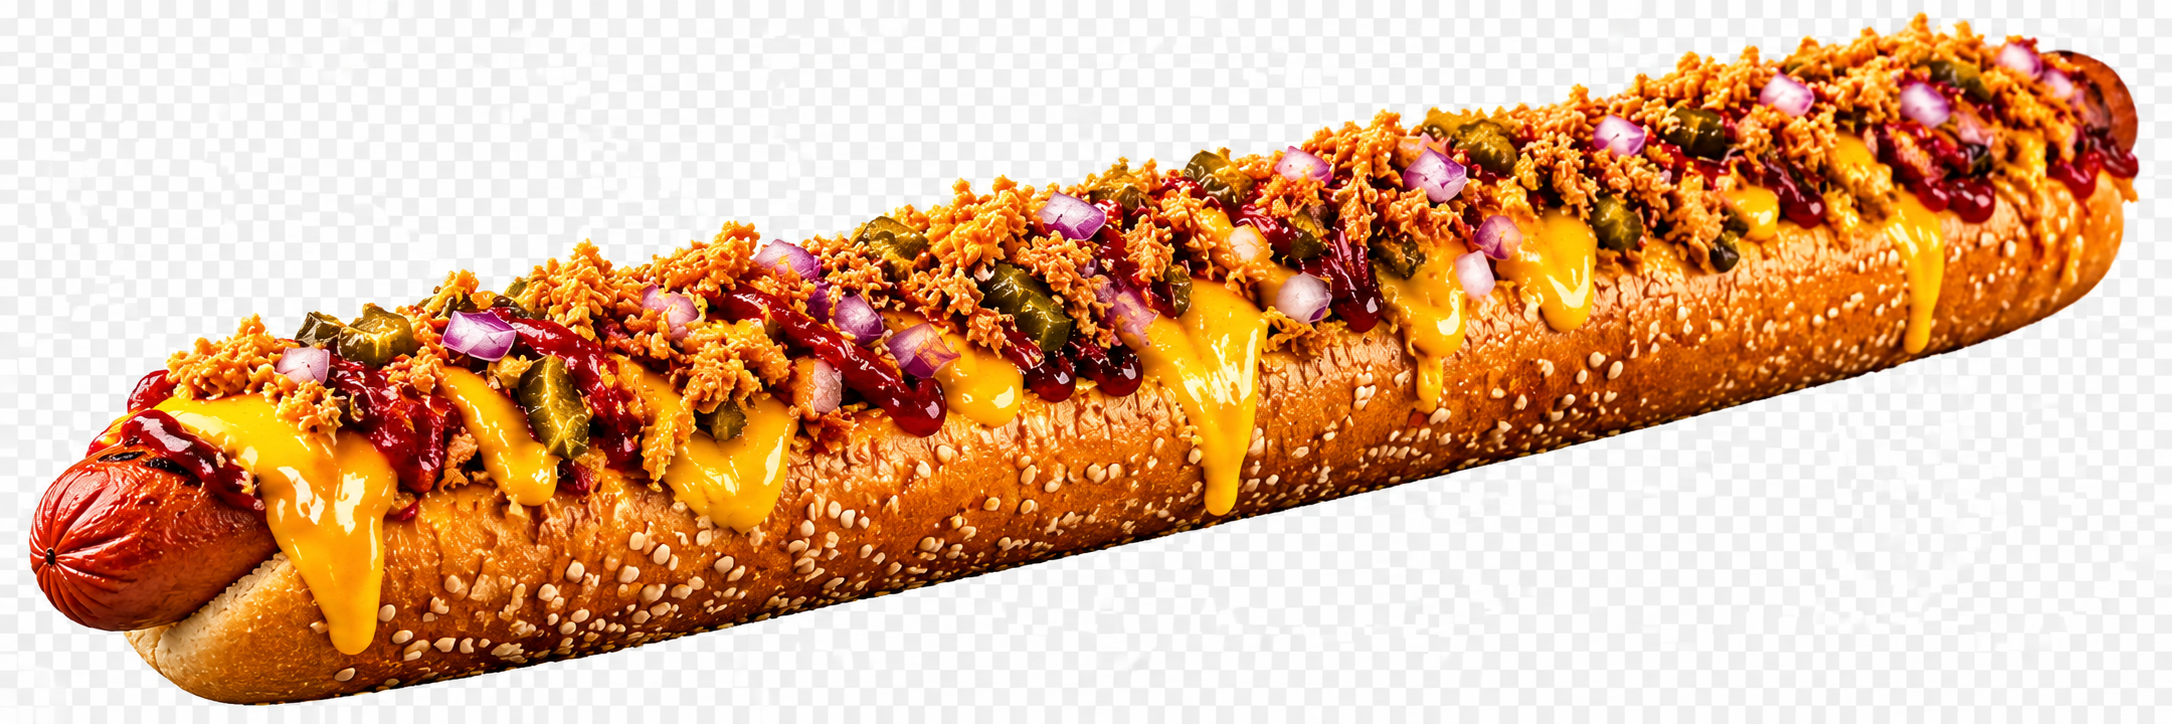
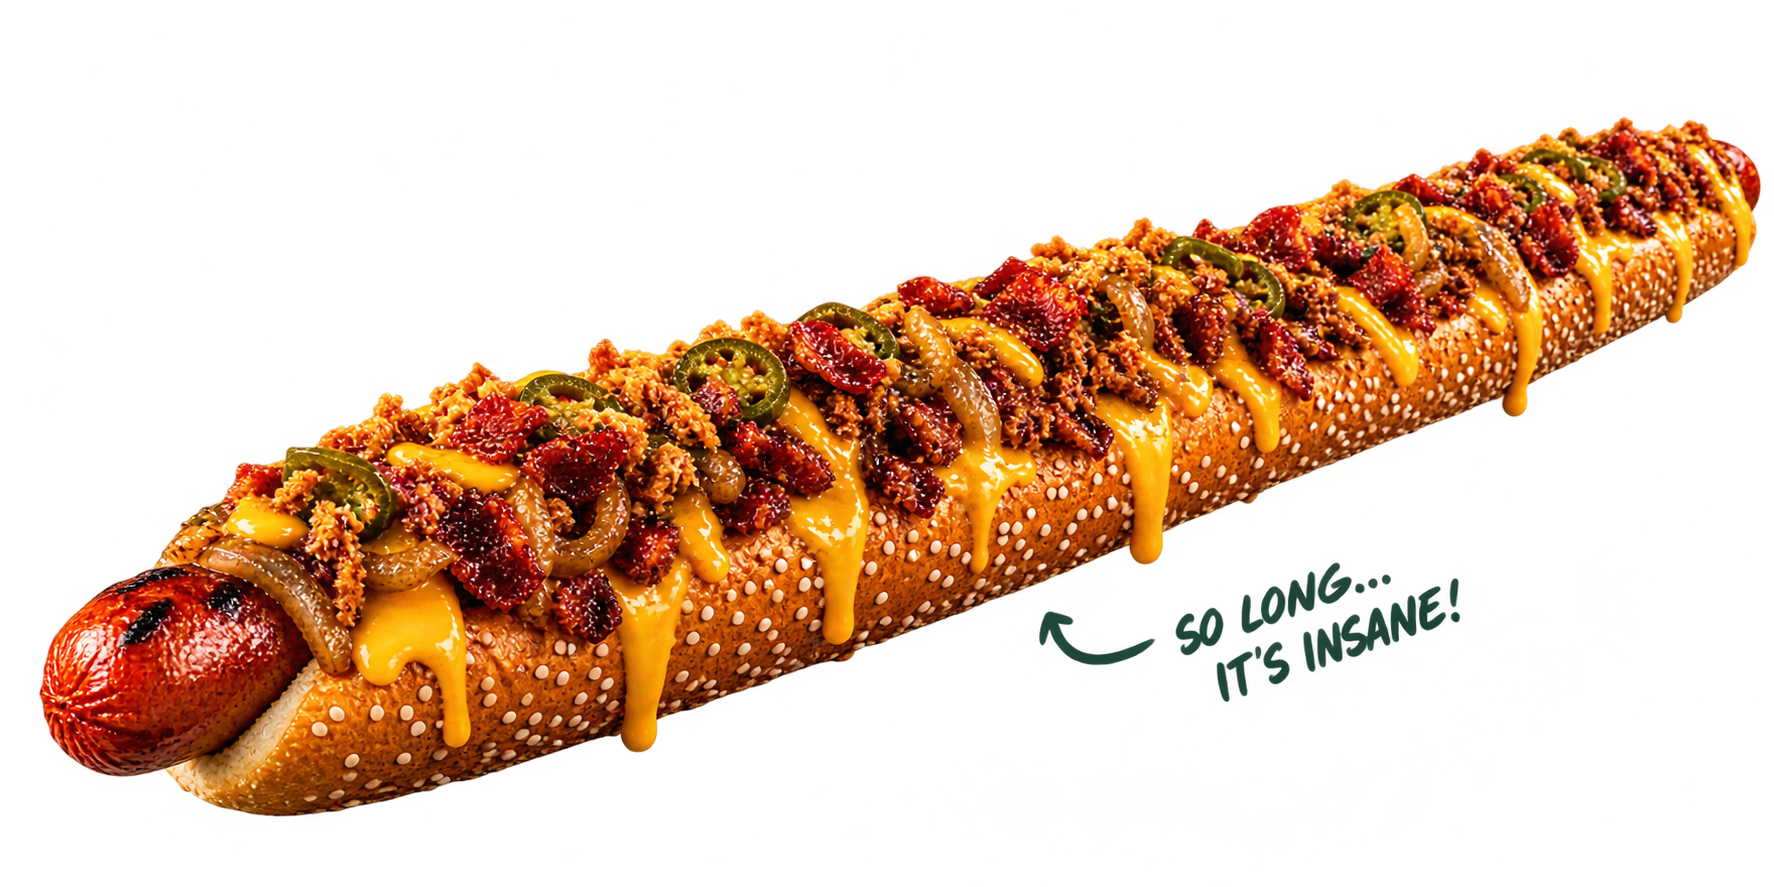
hot dog img fixed

diff --git a/frontend/app/Fab4.tsx b/frontend/app/Fab4.tsx
@@ -2,7 +2,7 @@ const fab4Items = [
     {
       name: "MR. FANTASTIC",
       subtitle: "THE LONG ONE",
-      description: "Ridiculously long. Completely loaded. Zero chance of sharing.",
+      description: "Ridiculously long. Seriously. We had to shorten the picture.",
       image: "/mr-fantastic.png",
       imageAlt: "Mr. Fantastic loaded long hot dog",
       layout: "left",
